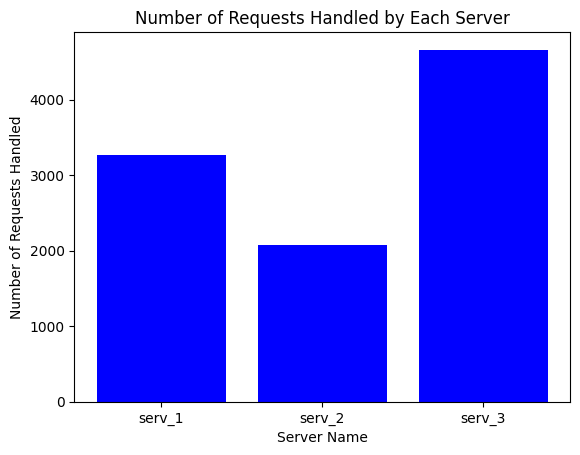
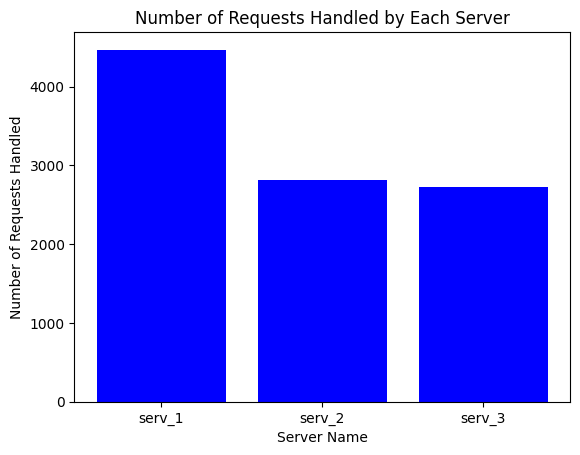
Changes made :
- Updated the README.md with new analysis

diff --git a/Assignment-1/README.md b/Assignment-1/README.md
@@ -65,16 +65,18 @@ Remove all containers
 
 ## Analysis
 
-1. From the bar chart below, we can see that the requests are being distributed evenly among all the 3 servers present. Server 1 is handling 3300 requests, Server 2 is handling 2000 requests and Server 3 is handling 4700 requests. Server 2 is getting a little bit less requests and Server 3 is getting high load but still the performance is good and the response is fast. Changing the hash function or increasing the servers might help in making the distribution more even thus increasing the performance.
+1. From the bar chart below, we can see that Server 1 is handling 4300 requests, Server 2 is handling 2900 requests and Server 3 is handling 2800 requests. Server 1 is getting a little bit more requests but still the performance is good and the response is fast. Changing the hash function or increasing the servers might help in making the distribution more even which inturn increases the performance.
 ![Bar Chart for A1](A1_bargraph.png)
 
-2. From the line graph below, we can see that as we increase the number of servers from 2 to 6 we can observe that the requests are getting distributed more evenly. Initially when number of servers are 2 the difference in number of requests handled by each server is more than 4000. But as we increase the number of servers to 6, we can see that the difference in number of requests handled by server with maximum requests and server with minimum requests is nearly 1000. Hence the performance improves as we increase number of servers. 
+2. From the line graph below, we can see that as we increase the number of servers from 2 to 6 we can observe that the requests are getting distributed more evenly. Initially when number of servers are 2 the difference in number of requests handled by server with maximum requests and server with minimum requests is nearly 1800. But as we increase the number of servers to 3,4,5,6, we can see that the difference in number of requests handled by server with maximum requests and server with minimum requests changes to 760, 1600, 1850, 1790 respectively. As we can see that the distribution of the load was best when number of servers were 3. Hence the performance is best when there are 3 servers. The reason for this fall and rise in difference between maximum and minium requests handled by a server can be hash function and the way the random ids are generated for each request. Choosing a better hash function could lead to better performance.
 ![Line Graph for A2](A2_linegraph.png)
+![Max-min Difference of requests](A2_difference_linegraph.png)
 
-3. All endpoints of the load balancer were tested successfully, and the load balancer distributed incoming requests among the available server instances. It can be verified by running the `analysis.ipynb` notebook. When a server running is stopped the loadbalancer was able to detect it when it sent and a heartbeat and didn't recieve one back from this stopped server. It respawned a new server quickly and the new server was able to handle the incoming requests just like other servers. The load distribution was even.
+3. All endpoints of the load balancer were tested successfully, and the load balancer distributed incoming requests among the available server instances. It can be verified by running the `analysis.ipynb` notebook. When a server running is stopped the loadbalancer was able to detect it. It was detected by using heartbeat. When loadbalancer sent a heartbeat and didn't recieve one back from this server within certain period, it concluded that this server is down. It respawned a new server quickly and the new server was able to handle the incoming requests just like other servers. The load distribution was even.
 
 
-4. The new hash functions used for both H and Φ is sha256. From the bar chart below, we can see that the 10,000 async requests are being distributed evenly among all the 3 servers present. Server 1 is handling 3300 requests, Server 2 is handling 2000 requests and Server 3 is handling 4700 requests. Server 2 is getting a little bit less requests and Server 3 is getting high load but still the performance is good and the response is fast. 
+4. The new hash functions used for both H and Φ is sha256. From the bar chart below, we can see that the 10,000 async requests are being distributed evenly among all the 3 servers present. Server 1 is handling 3300 requests, Server 2 is handling 2000 requests and Server 3 is handling 4700 requests. Server 2 is getting a little bit less requests and Server 3 is getting high load. Overall the performance is still good. 
 ![Bar Graph for A4](A4_bargraph.png)
-From the line graph below, we can see that as we increase the number of servers from 2 to 6 we can observe that the requests are getting distributed more evenly. Initially when number of servers are 2 the difference in number of requests handled by each server is more than 4000. But as we increase the number of servers to 6, we can see that the difference in number of requests handled by server with maximum requests and server with minimum requests is nearly 1000. Hence the performance improves as we increase number of servers.
+
+From the line graph below, we can see that as we increase the number of servers from 2 to 6 we can observe that the requests are getting distributed more evenly. Initially when number of servers are 2 the difference in number of requests handled by server with maximum requests and server with minimum requests is nearly 4000. But as we increase the number of servers to 3,4,5,6, we can see that the difference in number of requests handled by server with maximum requests and server with minimum requests changes to 1800, 1100, 1500, 1400 respectively. The distribution of load is best when there were 4 servers. Hence the performance is best when there are 4 servers. 
 ![Line Graph for A4](A4_linegraph.png)
